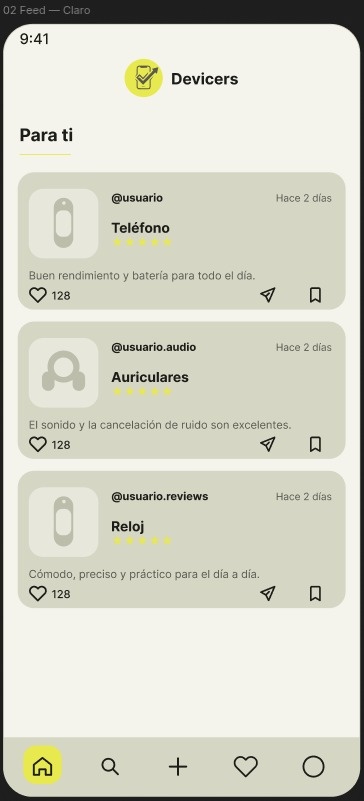
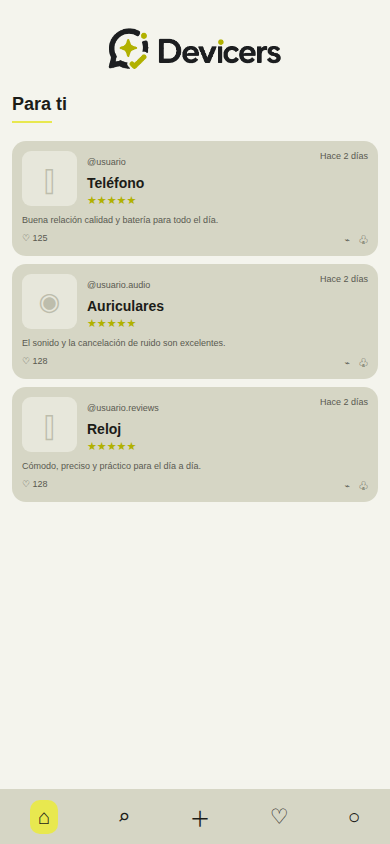
[Docs] ReadMe

diff --git a/README.md b/README.md
@@ -10,14 +10,18 @@ The application is envisioned as a small social network where people can discove
 
 The Devicers interface prototype is available on <a href="https://www.figma.com/design/l7mETjAKWkyAFwtx1VWmIX/Untitled?node-id=1-484&amp;t=p0lttPj7kJNiSUG2-1" target="_blank" rel="noopener noreferrer">Figma</a>.
 
-| Feed preview                                                                | Profile preview                                                                    |
-| --------------------------------------------------------------------------- | ---------------------------------------------------------------------------------- |
-| <img src="images/AppFeedScreen.png" alt="Devicers feed screen" width="280"> | <img src="images/AppProfileScreen.jpeg" alt="Devicers profile screen" width="280"> |
+| Sign-in screen | Registration screen |
+| --- | --- |
+| <img src="images/AppLoginScreen.png" alt="Devicers sign-in screen" width="280"> | <img src="images/AppRegisterScreen.png" alt="Devicers registration screen" width="280"> |
 
-### Logue
+| Feed screen | Search screen |
+| --- | --- |
+| <img src="images/AppFeedScreen.png" alt="Devicers feed screen" width="280"> | <img src="images/AppSearchScreen.png" alt="Devicers search screen" width="280"> |
+
+### Logo
 
 <p align="center">
-  <img src="images/Logue.svg" alt="Devicers logo" width="260">
+  <img src="DevicersApp/app/src/main/res/drawable/logo_claro.png" alt="Devicers logo" width="320">
 </p>
 
 ## Data model
